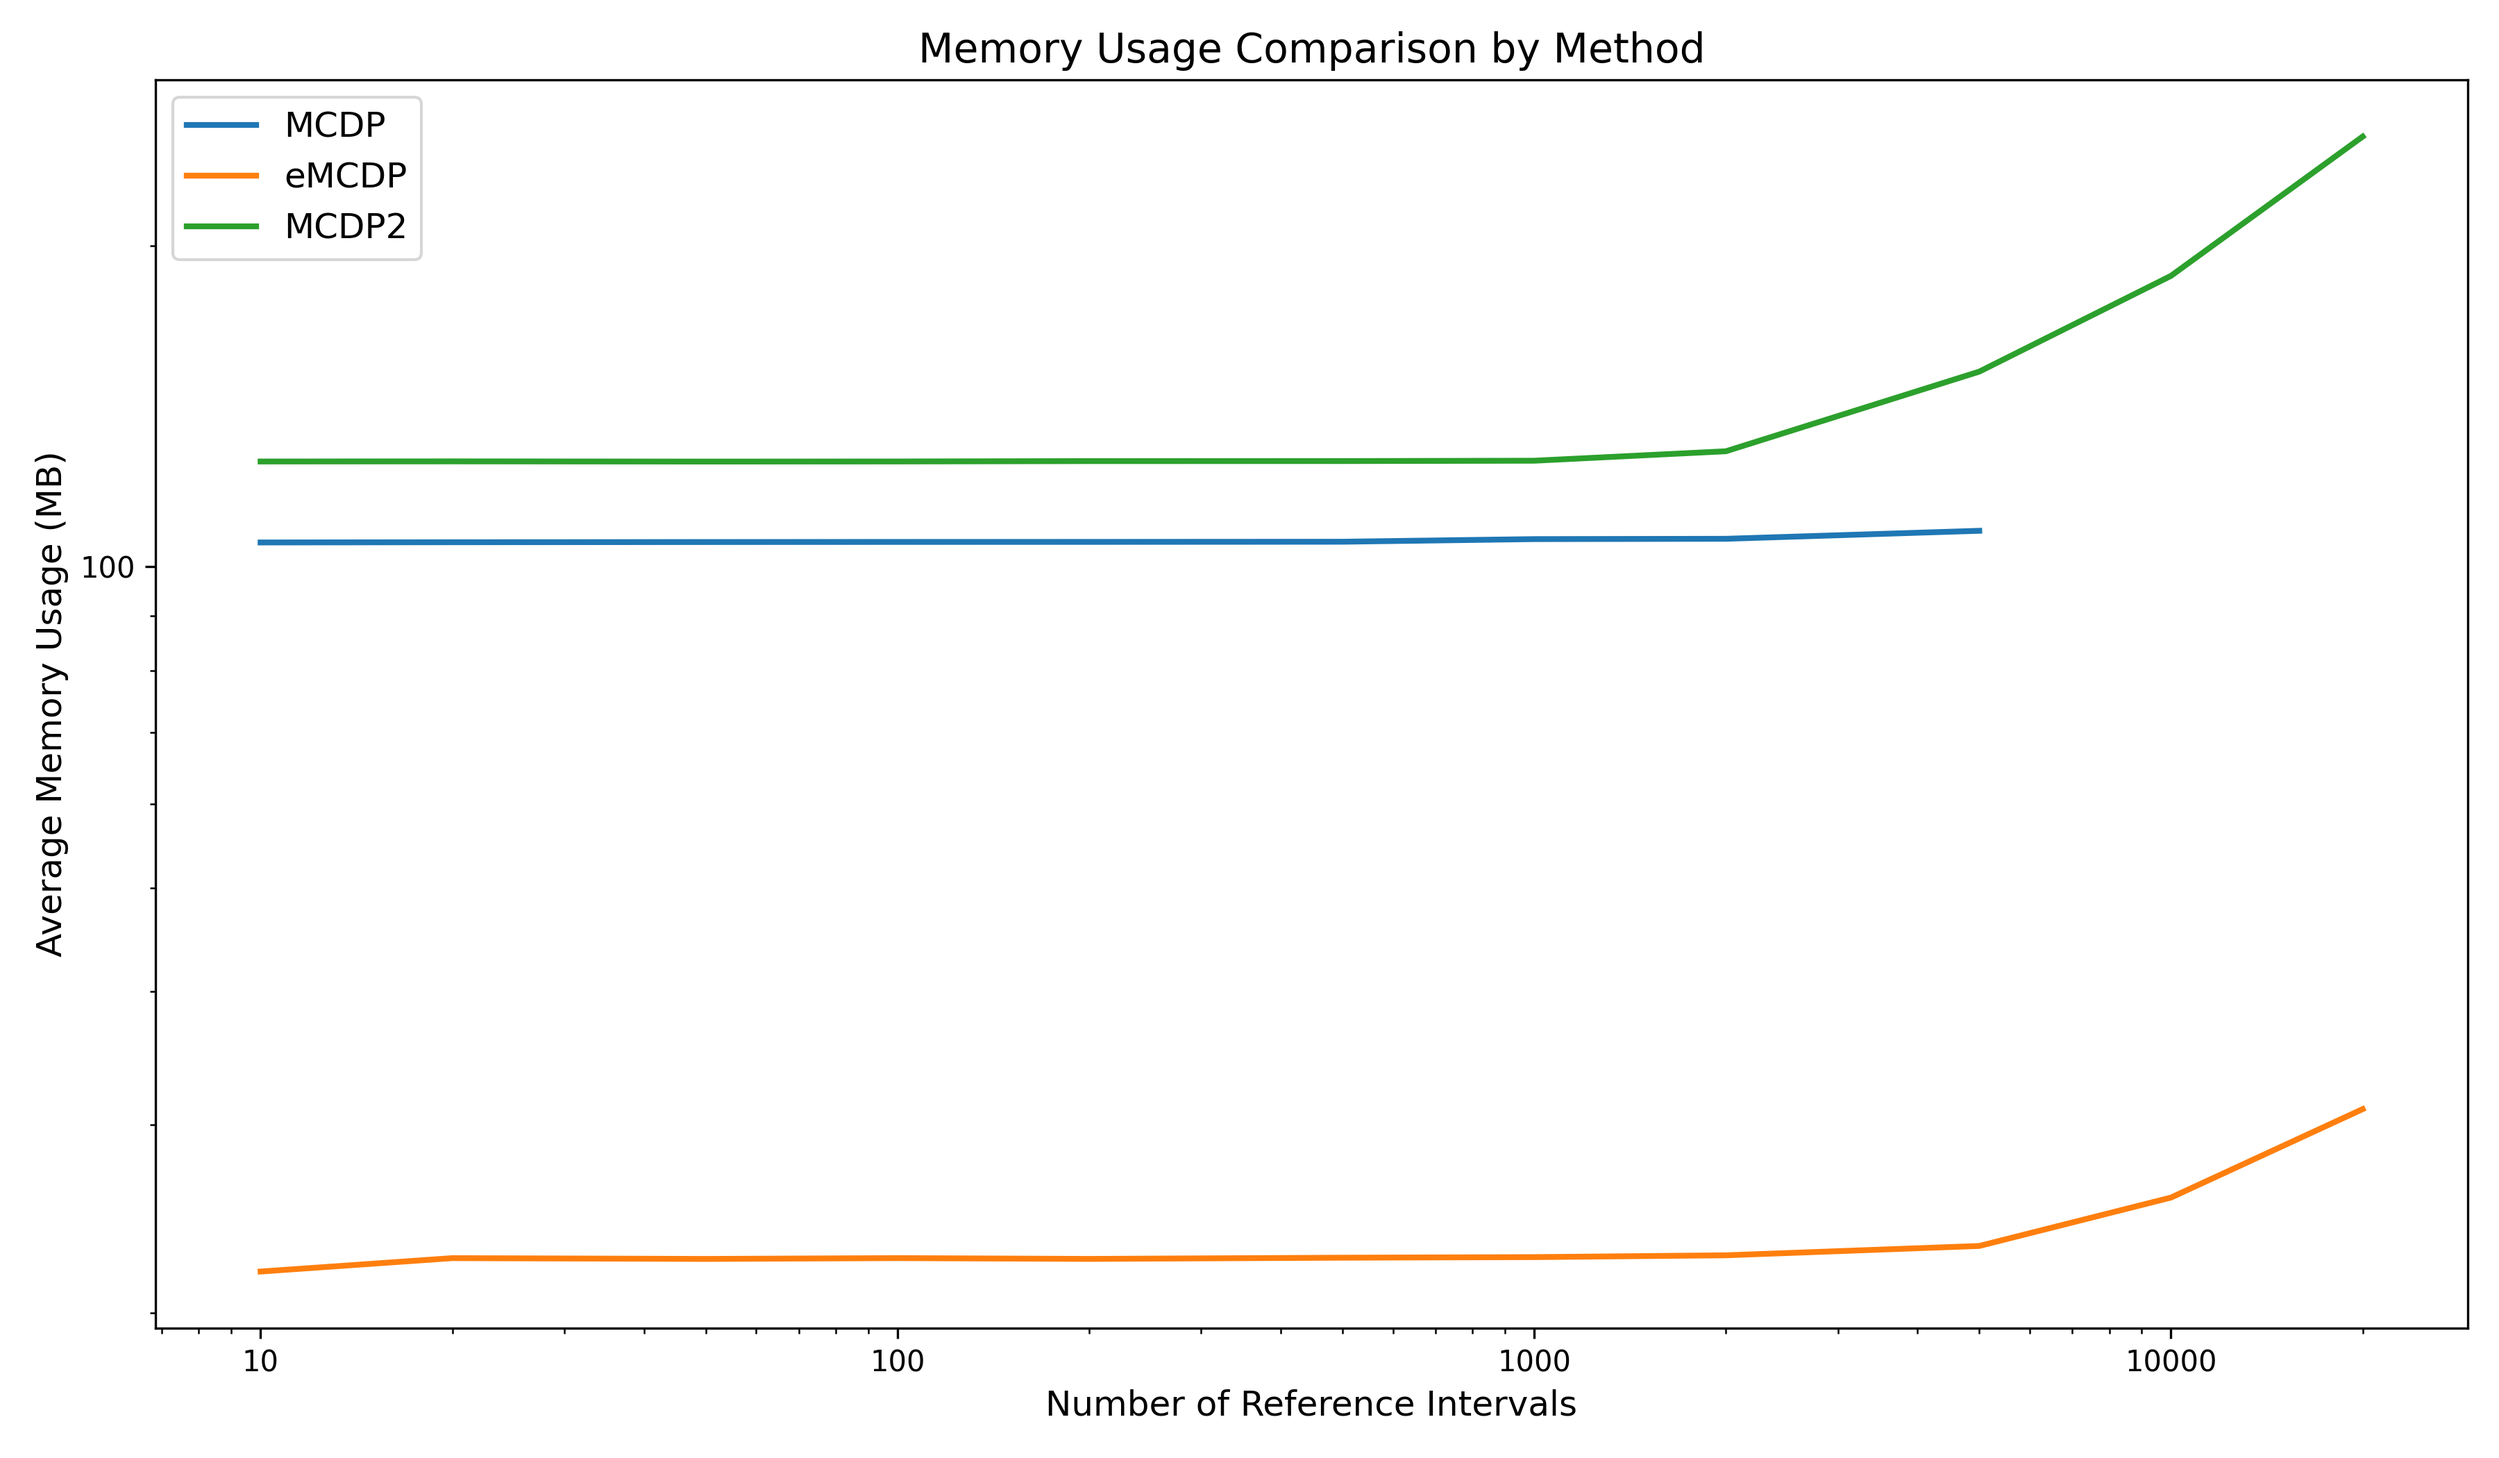
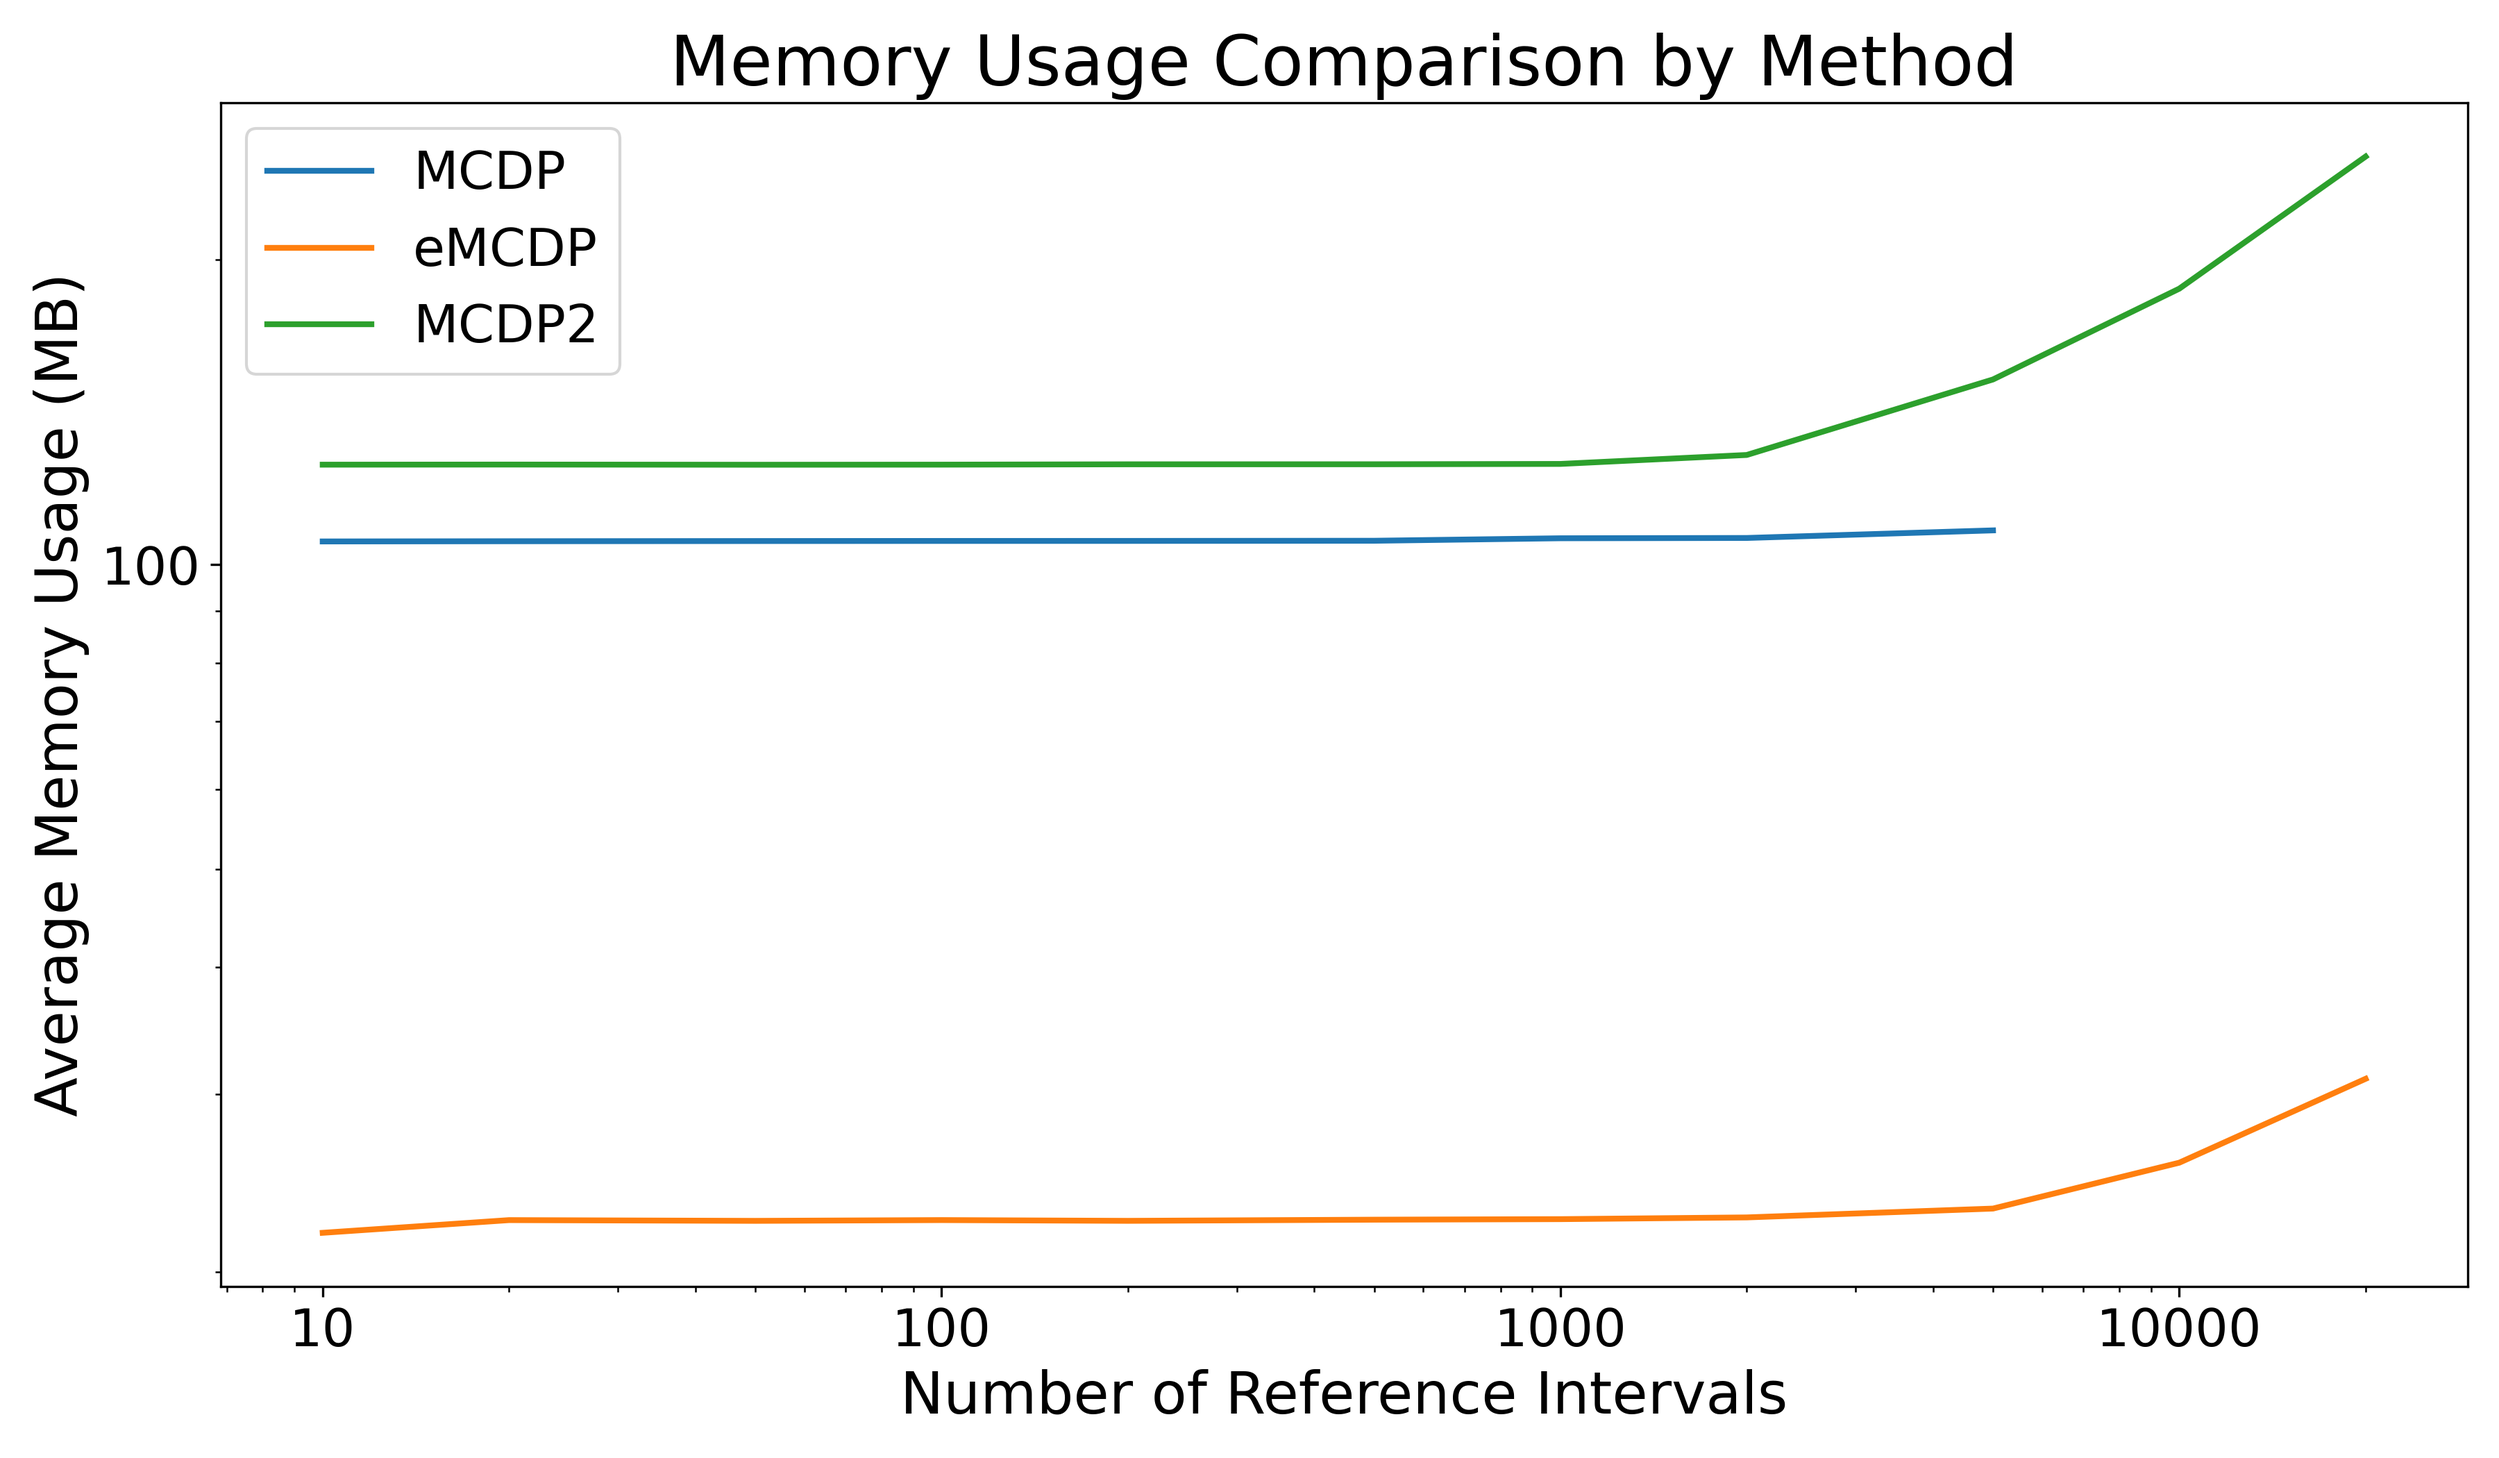
change font sizes in graphs and regenerate them

diff --git a/02-zarrei/summarize_into_tsv.py b/02-zarrei/summarize_into_tsv.py
@@ -1,0 +1,141 @@
+import os
+import re
+import pandas as pd
+import numpy as np
+
+RESULTS_DIR = "results"
+OUTPUT_FILENAME = "table_summary_data.tsv"
+SIGNIFICANCE_THRESHOLD = 0.01
+
+DIR_NAME_PATTERN = re.compile(r"(.+?)!inclusive\.loss_(enrichment|depletion|combined)_ws(\d+)")
+
+def main():
+    summary_data = []
+
+    if not os.path.isdir(RESULTS_DIR):
+        print(f"Error: Results directory '{RESULTS_DIR}' not found.")
+        return
+
+    print(f"Processing directories in: {RESULTS_DIR}")
+    for dir_name in sorted(os.listdir(RESULTS_DIR)):
+        dir_path = os.path.join(RESULTS_DIR, dir_name)
+
+        if not os.path.isdir(dir_path):
+            continue
+
+        match = DIR_NAME_PATTERN.fullmatch(dir_name)
+        if not match:
+            continue
+
+        annotation_type = match.group(1)
+        test_type = match.group(2)
+        window_size = int(match.group(3))
+
+        if window_size != 1_000_000 or test_type == 'combined':
+            continue
+
+        print(f"  Processing: {dir_name} (Annotation: {annotation_type}, Test: {test_type}, WS: {window_size})")
+
+        output_tsv_path = os.path.join(dir_path, "output.tsv")
+        metrics_tsv_path = os.path.join(dir_path, "metrics.tsv")
+
+        if not os.path.exists(output_tsv_path):
+            print(f"    Warning: 'output.tsv' not found in {dir_path}. Skipping this entry.")
+            continue
+        if not os.path.exists(metrics_tsv_path):
+            print(f"    Warning: 'metrics.tsv' not found in {dir_path}. Skipping this entry.")
+            continue
+
+        try:
+            df_output = pd.read_csv(output_tsv_path, sep='\t', dtype={'chr_name': str})
+            
+            required_cols = ['chr_name', 'begin', 'end', 'p-value_adjusted']
+            if not all(col in df_output.columns for col in required_cols):
+                print(f"    Warning: {output_tsv_path} is missing one or more required columns: {required_cols}. Skipping.")
+                continue
+
+            df_output['p-value_adjusted'] = pd.to_numeric(df_output['p-value_adjusted'], errors='coerce')
+            df_output.dropna(subset=['p-value_adjusted'], inplace=True)
+
+        except pd.errors.EmptyDataError:
+            print(f"    Warning: {output_tsv_path} is empty. Skipping.")
+            continue
+        except Exception as e:
+            print(f"    Error reading or processing {output_tsv_path}: {e}. Skipping.")
+            continue
+
+        significant_df = df_output[df_output['p-value_adjusted'] < SIGNIFICANCE_THRESHOLD].copy()
+
+        total_significant_windows = 0
+        num_chrom_significant = 0
+        most_significant_region_str = "N/A"
+        max_neg_log10_p_adj = "N/A"
+
+        if not significant_df.empty:
+            total_significant_windows = len(significant_df)
+            num_chrom_significant = significant_df['chr_name'].nunique()
+
+            most_significant_row_idx = significant_df['p-value_adjusted'].idxmin()
+            most_significant_row = significant_df.loc[most_significant_row_idx]
+
+            begin_val = int(most_significant_row['begin'])
+            end_val = int(most_significant_row['end'])
+            most_significant_region_str = f"{most_significant_row['chr_name']}:{begin_val}-{end_val}"
+
+            min_p_adj_val = most_significant_row['p-value_adjusted']
+            if pd.isna(min_p_adj_val):
+                 max_neg_log10_p_adj = "N/A"
+            elif min_p_adj_val == 0:
+                max_neg_log10_p_adj = -np.log10(np.finfo(float).tiny)
+            elif min_p_adj_val > 0:
+                max_neg_log10_p_adj = -np.log10(min_p_adj_val)
+            else:
+                 max_neg_log10_p_adj = np.nan
+
+        emcdp_time_val = "N/A"
+        try:
+            df_metrics = pd.read_csv(metrics_tsv_path, sep='\t')
+            if not df_metrics.empty and 'real_time' in df_metrics.columns:
+                emcdp_time_val = df_metrics.iloc[0]['real_time']
+        except pd.errors.EmptyDataError:
+            print(f"    Warning: {metrics_tsv_path} is empty.")
+        except Exception as e:
+            print(f"    Error reading {metrics_tsv_path}: {e}.")
+
+        summary_data.append({
+            "Annotation Type": annotation_type,
+            "Test Type": test_type,
+            "Total Significant Windows": total_significant_windows,
+            "No. Chromosomes with Significant Window(s)": num_chrom_significant,
+            "Most Significant Region (Chr:Start-End)": most_significant_region_str,
+            "Max -log10(Adj. P-value)": max_neg_log10_p_adj,
+            "eMCDP time (s)": emcdp_time_val
+        })
+
+    if not summary_data:
+        print("No data processed or found matching criteria. Output file will not be created.")
+        return
+
+    summary_df = pd.DataFrame(summary_data)
+
+    output_columns = [
+        "Annotation Type",
+        "Test Type",
+        "Total Significant Windows",
+        "No. Chromosomes with Significant Window(s)",
+        "Most Significant Region (Chr:Start-End)",
+        "Max -log10(Adj. P-value)",
+        "eMCDP time (s)"
+    ]
+    summary_df = summary_df[output_columns]
+
+    summary_df.sort_values(by=["Annotation Type", "Test Type"], inplace=True, ignore_index=True)
+
+    try:
+        summary_df.to_csv(OUTPUT_FILENAME, sep='\t', index=False, float_format='%.4f', na_rep='N/A')
+        print(f"\nSummary statistics successfully saved to {OUTPUT_FILENAME}")
+    except Exception as e:
+        print(f"\nError writing output file {OUTPUT_FILENAME}: {e}")
+
+if __name__ == "__main__":
+    main()

diff --git a/01-synthetic/window_benchmark_metrics/graphing.py b/01-synthetic/window_benchmark_metrics/graphing.py
@@ -34,14 +34,17 @@ def plot_comparison(data, y_col, y_label, title, output_file, log=False):
         plt.yscale('log')
     else:
         plt.grid(True, which='both', linestyle='--', alpha=0.7)
-    plt.xlabel('Number of Reference Intervals', fontsize=12)
-    plt.ylabel(y_label, fontsize=12)
-    plt.title(title, fontsize=14)
-    plt.legend(fontsize=12)
+    plt.xlabel('Number of Reference Intervals', fontsize=20)
+    plt.ylabel(y_label, fontsize=20)
+    plt.title(title, fontsize=24)
+    plt.legend(fontsize=18)
     
     plt.gca().xaxis.set_major_formatter(ticker.ScalarFormatter())
     plt.gca().yaxis.set_major_formatter(ticker.ScalarFormatter())
     
+    plt.xticks(fontsize=18)
+    plt.yticks(fontsize=18)
+
     plt.tight_layout()
     plt.savefig(output_file, dpi=300)
     plt.close()
@@ -51,7 +54,7 @@ step_divisors = [5, 10, 20]
 
 def main():
     for step in step_divisors:
-        if step != 20:
+        if step not in [20, 10]:
             continue
 
         # data = load_data([f"slow_bad_div{step}.tsv", f"slow_div{step}.tsv", f"fast_bad_div{step}.tsv", f"fast_div{step}.tsv"])
@@ -63,7 +66,7 @@ def main():
                 y_col='time_seconds_avg',
                 y_label='Average Runtime (s)',
                 title='Runtime Comparison by Method',
-                output_file=f"3_method_runtime_comparison{"_log" if log else ""}_step{step}.png",
+                output_file=f"3_method_runtime_comparison{"_log" if log else ""}{f"_step{step}" if step == 20 else ""}.png",
                 log=log
             )
 
@@ -73,7 +76,7 @@ def main():
                 y_col='mem_mb_avg',
                 y_label='Average Memory Usage (MB)',
                 title='Memory Usage Comparison by Method',
-                output_file=f"3_method_memory_comparison{"_log" if log else ""}_step{step}.png",
+                output_file=f"3_method_memory_comparison{"_log" if log else ""}{f"_step{step}" if step == 20 else ""}.png",
                 log=log
             )
 

diff --git a/01-synthetic/metrics/graphing.py b/01-synthetic/metrics/graphing.py
@@ -32,13 +32,16 @@ def plot_comparison(data, y_col, y_label, title, output_file, log=False):
         plt.yscale('log')
     else:
         plt.grid(True, which='both', linestyle='--', alpha=0.7)
-    plt.xlabel('Number of Reference Intervals', fontsize=12)
-    plt.ylabel(y_label, fontsize=12)
-    plt.title(title, fontsize=14)
-    plt.legend(fontsize=12)
+    plt.xlabel('Number of Reference Intervals', fontsize=20)
+    plt.ylabel(y_label, fontsize=20)
+    plt.title(title, fontsize=24)
+    plt.legend(fontsize=18)
     
     plt.gca().xaxis.set_major_formatter(ticker.ScalarFormatter())
     plt.gca().yaxis.set_major_formatter(ticker.ScalarFormatter())
+
+    plt.xticks(fontsize=18)
+    plt.yticks(fontsize=18)
     
     plt.tight_layout()
     plt.savefig(output_file, dpi=300)
